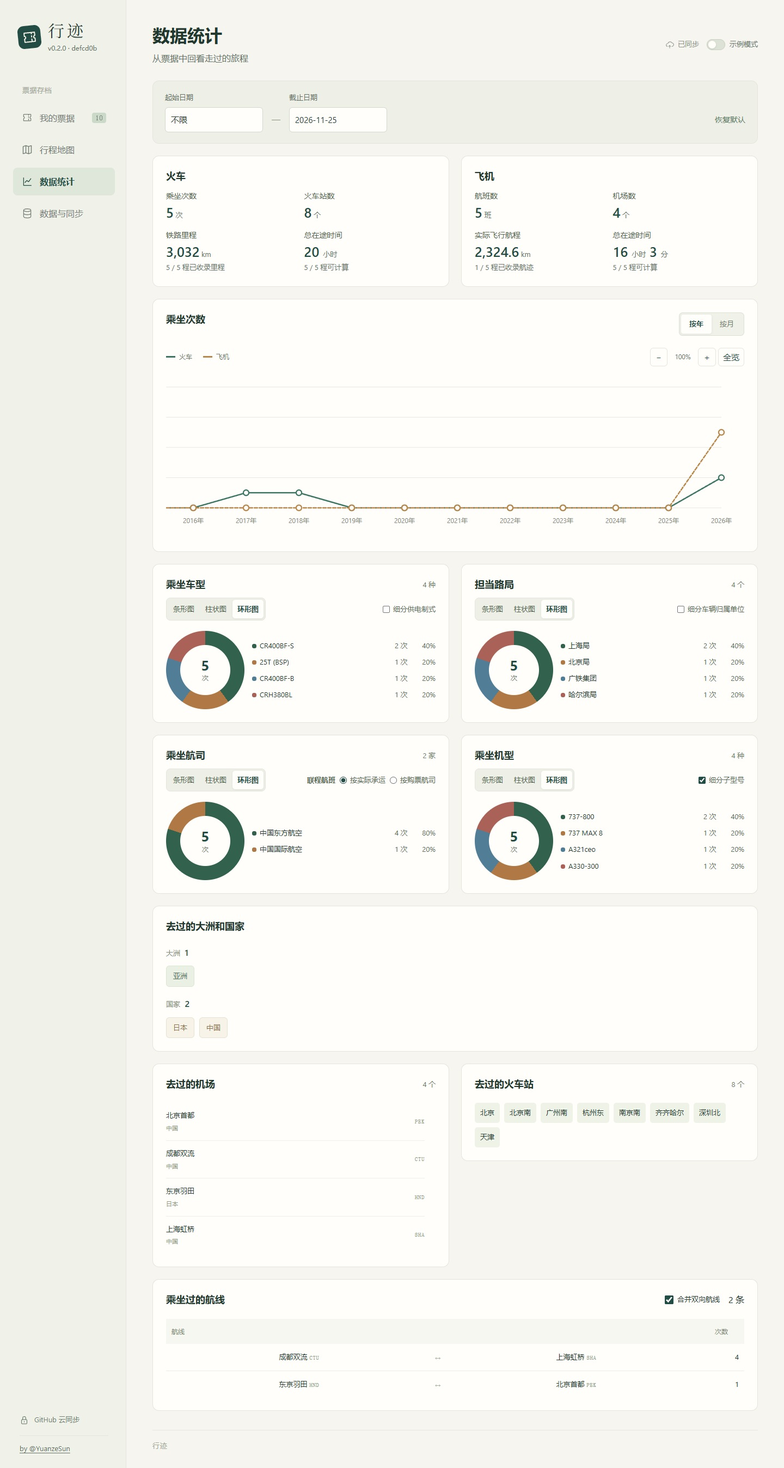
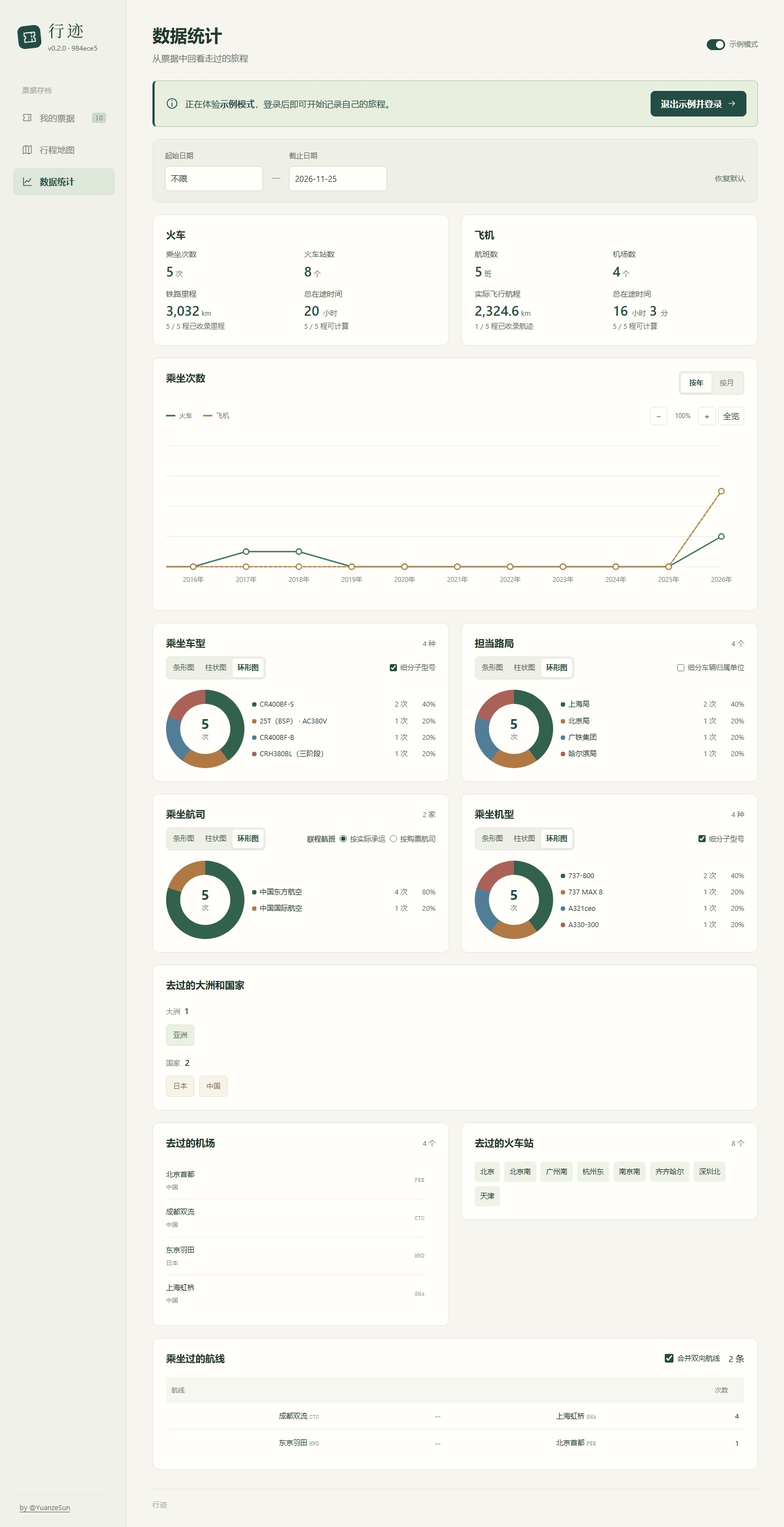
Preserve saved rail QR codes and group rolling stock subtypes

diff --git a/tests/statistics.test.js b/tests/statistics.test.js
@@ -88,7 +88,7 @@ test('rail and flight travel times are totaled independently across dates, time 
 });
 
 test('statistics default to an unbounded start and today, compare dates only and respect edited bounds', () => {
-  assert.deepEqual(statisticsOptions({}, '2026-11-16'), { ...range, period: 'year', year: '', chartZoom:1, mergeDirections:true, railUnits:false, railPowerSupplies:false, aircraftSubtypes:true, marketingAirlines:false });
+  assert.deepEqual(statisticsOptions({}, '2026-11-16'), { ...range, period: 'year', year: '', chartZoom:1, mergeDirections:true, railUnits:false, railSubtypes:true, aircraftSubtypes:true, marketingAirlines:false });
   const rows = [rail({ id: 'past' }), flight({ id: 'today', departureDate: '2026-11-16', departureTime: '23:59' }), rail({ id: 'future', departureDate: '2026-11-17' }), rail({ id: 'deleted', deleted: true }), rail({ id: 'undated', departureDate: '' })];
   const result = statisticsRange(rows, range);
   assert.deepEqual(result.records.map(row => row.id), ['past', 'today']); assert.equal(result.omittedDates, 1);
@@ -323,18 +323,61 @@ test('rail ownership and aircraft subtype toggles change only their own rankings
 
 test('rail power supply grouping separates conventional coaches, preserves EMUs and survives switching pages',()=>{
   const rows=[rail({railModel:'25GDC600V'}),rail({railModel:'25GAC380V'}),rail({railModel:'25G',railPowerSupply:'DC600V'}),rail({railModel:'25G'}),rail({railModel:'CR400AF / CR400AF'}),rail({railModel:'25T',railPowerSupply:'DC600V',departureDate:'2200-01-01'}),rail({railModel:'25T',template:'rail-refund-receipt'})];
-  const before=JSON.stringify(rows),normal=journeyStatistics(rows,range),split=journeyStatistics(rows,{...range,railPowerSupplies:true});
+  const before=JSON.stringify(rows),normal=journeyStatistics(rows,{...range,railSubtypes:false}),split=journeyStatistics(rows,range);
   assert.deepEqual(normal.railModels,[{name:'25G',count:4},{name:'CR400AF',count:1}]);
-  assert.deepEqual(Object.fromEntries(split.railModels.map(row=>[row.name,row.count])),{'25G · DC600V':2,'25G · AC380V':1,'25G · 供电制式未知':1,CR400AF:1});
+  assert.deepEqual(Object.fromEntries(split.railModels.map(row=>[row.name,row.count])),{'25G · DC600V':2,'25G · AC380V':1,'25G':1,CR400AF:1});
   for(const key of ['rail','flight','railMileage','railMileageTrips','aircraft','railBureaus','airports','stations','routes'])assert.deepEqual(split[key],normal[key]);
   const dom=new JSDOM('<div id="root"></div>'),root=dom.window.document.querySelector('#root'),options={...range};let cleanup=mountStatistics(root,rows,{options});
-  const change=checked=>{const toggle=root.querySelector('[data-stat-option="railPowerSupplies"]');toggle.checked=checked;toggle.dispatchEvent(new dom.window.Event('change',{bubbles:true}));};
+  const change=checked=>{const toggle=root.querySelector('[data-stat-option="railSubtypes"]');toggle.checked=checked;toggle.dispatchEvent(new dom.window.Event('change',{bubbles:true}));};
   try{
-    assert.equal(root.querySelector('[data-stat-option="railPowerSupplies"]').checked,false);change(true);
+    assert.equal(root.querySelector('[data-stat-option="railSubtypes"]').checked,true);
     assert.match(root.querySelector('[data-stat-ranking="rail-models"]').textContent,/DC600V/);
-    cleanup();cleanup=mountStatistics(root,rows,{options});assert.equal(root.querySelector('[data-stat-option="railPowerSupplies"]').checked,true);
-    change(false);assert.doesNotMatch(root.querySelector('[data-stat-ranking="rail-models"]').textContent,/DC600V|AC380V|供电制式未知/);assert.equal(JSON.stringify(rows),before);
+    change(false);
+    cleanup();cleanup=mountStatistics(root,rows,{options});assert.equal(root.querySelector('[data-stat-option="railSubtypes"]').checked,false);
+    assert.doesNotMatch(root.querySelector('[data-stat-ranking="rail-models"]').textContent,/DC600V|AC380V/);assert.equal(JSON.stringify(rows),before);
   }finally{cleanup();dom.window.close();}
+});
+
+test('rail model statistics uses saved submodels, preserves compound labels and groups known variants on request', () => {
+  const date = journeyDate('2024-02-29');
+  const railJourney = {
+    query: { trainNum: 'D821', startDate: date, boardingDate: date, origin: '北京南', destination: '上海虹桥' },
+    queriedAt: '2024-02-29T00:00:00Z',
+    stops: [{ station: '北京南', departureDate: date, departureTime: '09:00' }, { station: '上海虹桥', arrivalDate: date, arrivalTime: '16:00' }],
+    trainsets: [{ id: 'CRH5G-5218', model: 'CRH5G', subModel: '技术提升型' }, { id: 'CRH5G-5229', model: 'CRH5G', subModel: '技术提升型' }],
+    coupling: true,
+  };
+  const rows = [
+    rail({ service: 'D821', railModel: 'CRH5G', railJourney }), rail({ railModel: 'ｃｒｈ５ｇ (技术提升)' }),
+    rail({ railModel: 'CRH5G' }), rail({ railModel: 'CRH5G（旧型）' }), rail({ railModel: 'CRH5A' }),
+    rail({ railModel: 'CRH2C1 / CRH2C一阶段 / CRH2C（一阶）' }),
+    rail({ railModel: 'CRH380A(统型,公务版) / CR400BF-GS' }), rail({ railModel: 'CR400BF-S / CR400BF-GS' }),
+    rail({ railModel: '25G (DC600V 供电)' }), rail({ railModel: '25T (BSP)', railPowerSupply: 'AC380V' }),
+    rail({ railModel: 'CR200J3-C / CR200J1-D' }), rail({ railModel: 'CRH6A-A / CRH6A' }),
+    rail({ railModel: '未知车型（说明）' }),
+  ];
+  const before = JSON.stringify(rows);
+  const counts = options => Object.fromEntries(journeyStatistics(rows, { ...range, ...options }).railModels.map(({ name, count }) => [name, count]));
+  assert.deepEqual(counts(), {
+    'CRH5G（技术提升型）': 2, CRH5G: 1, 'CRH5G（旧型）': 1, CRH5A: 1, 'CRH2C（一阶段）': 1,
+    'CRH380A（统型、公务版）': 1, 'CR400BF-GS': 2, 'CR400BF-S': 1, '25G · DC600V': 1, '25T（BSP） · AC380V': 1,
+    'CR200J3-C': 1, 'CR200J1-D': 1, 'CRH6A-A': 1, CRH6A: 1, '未知车型(说明)': 1,
+  });
+  assert.deepEqual(counts({ railSubtypes: false }), {
+    CRH5G: 4, CRH5A: 1, CRH2C: 1, CRH380A: 1, CR400BF: 2, '25G': 1, '25T': 1,
+    CR200J: 1, CRH6A: 1, '未知车型(说明)': 1,
+  });
+  const dom = new JSDOM('<div id="root"></div>'), root = dom.window.document.querySelector('#root');
+  const cleanup = mountStatistics(root, rows, { options: { ...range } });
+  try {
+    const subtype = root.querySelector('[data-stat-option="railSubtypes"]');
+    assert.equal(subtype.checked, true);
+    subtype.checked = false;
+    subtype.dispatchEvent(new dom.window.Event('change', { bubbles: true }));
+    assert.doesNotMatch(root.querySelector('[data-stat-ranking="rail-models"]').textContent, /技术提升型|公务版|CR400BF-GS|DC600V|AC380V/);
+    assert.equal(root.querySelector('[data-stat-option="aircraftSubtypes"]').checked, true);
+    assert.equal(JSON.stringify(rows), before);
+  } finally { cleanup(); dom.window.close(); }
 });
 
 test('each ranking switches charts independently and keeps its grouping and date filters', () => {
@@ -366,9 +409,9 @@ test('each ranking switches charts independently and keeps its grouping and date
     assert.match(tail.querySelector('summary').textContent, /其他（2 项）2 次28\.6%/);
     assert.equal(tail.querySelectorAll('li').length, 2);
     assert.equal(card('aircraft').querySelector('.statistics-ring strong').textContent, '7');
-    change('[data-stat-option=railPowerSupplies]', { checked: true });
+    change('[data-stat-option=railSubtypes]', { checked: false });
     assert.equal(picked('rail-models'), 'columns');
-    assert.match(card('rail-models').textContent, /DC600V/);
+    assert.doesNotMatch(card('rail-models').textContent, /DC600V/);
     change('[data-stat-option=aircraftSubtypes]', { checked: false });
     assert.equal(picked('aircraft'), 'donut');
     assert.equal(card('aircraft').querySelector('.statistics-ring strong').textContent, '7');

diff --git a/src/code-editor.js b/src/code-editor.js
@@ -9,7 +9,7 @@ import {fieldSourceBadge,markFieldSources,railBarcodeFieldLocked,railCodeEntryLo
 import {ticketFieldLocked,refreshTicketFieldLocks} from './barcode-fields.js';
 import { codeCameraMarkup, bindCodeCamera } from './code-camera.js';
 import { renderCodeData } from './barcode-data.js';
-import { isLinearTicketCode, normalizeTicketCode } from './ticket-code.js';
+import { hasRailQRCode, isLinearTicketCode, normalizeTicketCode } from './ticket-code.js';
 import { normalizeBoardingCode } from './boarding-code.js';
 import { DEMO_BOARDING_CODE } from './demo-boarding-code.js';
 import { DEMO_RAIL_LINEAR_CODE, DEMO_RAIL_TICKET_CODE, DEMO_TICKET_CODE } from './demo-code.js';
@@ -18,7 +18,8 @@ import {escape as e} from './html.js';
 import {applyTicketIdentity} from './personal-profile.js';
 
 const configuration = record => record.type === 'flight' ? { field: 'boardingCode', normalize: normalizeBoardingCode } : { field: 'ticketCode', normalize: normalizeTicketCode };
-const removable = (record,field) => !!record[field] && record.boardingCodeSource!=='generated';
+const codeRemovalLocked = (record, editingSaved) => editingSaved && (record.type === 'flight' || hasRailQRCode(record));
+const removable = (record, field, editingSaved) => !codeRemovalLocked(record, editingSaved) && !!record[field] && record.boardingCodeSource !== 'generated';
 const thumbnail = code => code ? `${renderCodeData(code)}<span>已收录</span>` : '';
 let boardingExamples, railQRExample, railLinearExample;
 function boardingExamplesMarkup(hidden) {
@@ -40,7 +41,7 @@ export function ticketCodeEditor(record, { fromScan = false, editingSaved = fals
   const referenceButton = fromScan && !disabled ? `<button type="button" class="button small secondary" id="code-use-scan" ${record[field] ? 'hidden' : ''}>读取本次图片中的码</button>` : '';
   const upload = `<button type="button" class="button small secondary" data-code-upload${disabled}>上传图片</button><input id="code-photo" type="file" accept="image/png,image/jpeg,image/webp" hidden${disabled} />`;
   const saved = normalize(record[field]);
-  const remove = flight && editingSaved ? '' : `<button type="button" class="button small secondary" id="code-remove" ${removable(record,field) ? '' : 'hidden'}>移除</button>`;
+  const remove = codeRemovalLocked(record, editingSaved) ? '' : `<button type="button" class="button small secondary" id="code-remove" ${removable(record, field, editingSaved) ? '' : 'hidden'}>移除</button>`;
   const controls = `<div class="saved-code" id="saved-code" ${saved ? '' : 'hidden'}>${thumbnail(saved)}</div><div class="code-actions">${referenceButton}<button type="button" class="button small secondary" data-code-start${disabled}>相机扫描</button>${upload}${remove}</div>`;
   const scan = `<div class="boarding-code-scan"><div class="boarding-code-controls">${controls}</div>${flight ? boardingExamplesMarkup(record[field]) : railExampleMarkup(record)}</div>`;
   return `<section data-code-editor class="editor-extra${flight ? '' : ' full-field rail-code-entry'}" ${flight ? '' : 'data-rail-code-entry'} id="code-editor"><h3>${title}${fieldSourceBadge(field,record)}</h3>${scan}${codeCameraMarkup()}<p class="fine-print" id="code-status" role="status"></p><p id="code-consistency" class="code-consistency" role="status" hidden></p><div id="code-choices" class="code-choices" hidden></div><button type="button" class="text-button" id="code-cancel" hidden>取消选择</button><p class="form-error" id="code-error" role="alert"></p></section>`;
@@ -58,7 +59,7 @@ export function bindTicketCodeEditor(form, draft, changed, { referenceURL = '', 
     saved.innerHTML = thumbnail(draft[field]);
     saved.hidden = !draft[field];
     const remove = find('code-remove');
-    if (remove) remove.hidden = !removable(draft,field);
+    if (remove) remove.hidden = !removable(draft, field, editingSaved);
     const reference = find('code-use-scan');
     if (reference) reference.hidden = !!draft[field];
     section.querySelector('[data-code-examples]').hidden = !!draft[field] || railCodeEntryLocked(draft);
@@ -176,6 +177,12 @@ export function bindTicketCodeEditor(form, draft, changed, { referenceURL = '', 
   function use(code) {
     if (!isCurrent()) return;
     if (flight) { useFlight(code); return; }
+    if (codeRemovalLocked(draft, editingSaved) && isLinearTicketCode(code.data)) {
+      reset();
+      status.textContent = '';
+      error.textContent = '已收录的二维码只能用二维码替换';
+      return;
+    }
     const previousRecord={...draft};
     draft[field] = normalize(code.data);
     markManualFields(draft,[field]);
@@ -275,7 +282,7 @@ export function bindTicketCodeEditor(form, draft, changed, { referenceURL = '', 
   photo.addEventListener('change', () => { const file = photo.files?.[0]; if (file) { onCameraStart?.(); camera.stop(); read(file); } });
   find('code-use-scan')?.addEventListener('click', () => readReference());
   find('code-remove')?.addEventListener('click', () => {
-    if((flight && editingSaved) || !removable(draft,field))return;
+    if (!removable(draft, field, editingSaved)) return;
     reset();
     if(!flight)draft.lockedFields=draft.lockedFields.filter(key=>!railBarcodeFieldLocked(draft,key));
     draft[field]='';

diff --git a/src/rail-model-statistics.js b/src/rail-model-statistics.js
@@ -1,0 +1,68 @@
+import { normalizeRailModel, normalizeRailPowerSupply } from './rail-details.js';
+import { isEmuModel, railJourneyMatches, railText } from './rail-journey.js';
+
+// Model designations and configuration codes, distinct from trainset numbers and power supplies.
+const modelCode = /^(CR(?:H\d+[A-Z][A-Z\d]*|\d{3}[A-Z][A-Z\d]*)|(?:CJ|DJ)\d+[A-Z\d]*|25[A-Z]{1,3})(\s*-\s*[A-Z]{1,2})?(?:-\d{4})?(?:型)?/;
+const variantLabel = /^(?:\s*(?:\((.+)\)|·\s*(.+)|(技术提升[型版]?|[一二三]阶段|非?统型?)))?$/;
+const seriesPatterns = [
+  /^(CR400(?:AF|BF))-(?:A|B|C|E|G|J|S|Z|AE|AS|AZ|BE|BS|BZ|GS|GZ)$/,
+  /^(CR200J)[1-3](?:-[A-D])?$/,
+  /^(CRH6[AF])-A$/,
+];
+const modelAliases = new Map([['CRH2C1', ['CRH2C', '一阶段']], ['CRH2C2', ['CRH2C', '二阶段']]]);
+const variantAliases = new Map([
+  ['技术提升', '技术提升型'], ['技术提升版', '技术提升型'],
+  ['一阶', '一阶段'], ['第一阶段', '一阶段'], ['二阶', '二阶段'], ['第二阶段', '二阶段'],
+  ['三阶', '三阶段'], ['第三阶段', '三阶段'], ['非统', '非统型']
+]);
+
+function modelLabels(value) {
+  const text = railText(value).normalize('NFKC');
+  const labels = [];
+  let depth = 0, start = 0;
+  for (let index = 0; index < text.length; index++) {
+    const char = text[index];
+    if (char === '(') depth++;
+    else if (char === ')') depth = Math.max(0, depth - 1);
+    else if (!depth && '/、,;+\n'.includes(char)) {
+      labels.push(text.slice(start, index));
+      start = index + 1;
+    }
+  }
+  labels.push(text.slice(start));
+  return labels;
+}
+
+function classify(value, subModel = '') {
+  const text = normalizeRailModel(railText(value));
+  if (!text) return null;
+  const match = modelCode.exec(text);
+  const variantMatch = match && variantLabel.exec(text.slice(match[0].length));
+  if (!variantMatch) return { code: text, label: text, series: text };
+  const [, main, suffix = ''] = match;
+  const [, parenthetical, annotated, compact] = variantMatch;
+  const base = main + suffix.replace(/\s/g, '');
+  const [code, knownVariant] = modelAliases.get(base) || [base, ''];
+  const variant = railText(parenthetical || annotated || compact || knownVariant || subModel).normalize('NFKC').toUpperCase();
+  const details = [...new Set(variant.split(/[,、]/).map(detail => detail.trim()).filter(Boolean)
+    .map(detail => variantAliases.get(detail) || detail))];
+  const label = details.length ? `${code}（${details.join('、')}）` : code;
+  const series = seriesPatterns.find(pattern => pattern.test(code))?.exec(code)[1] || code;
+  return { code, label, series };
+}
+
+export function railModelsForRecord(record, { railSubtypes }) {
+  const saved = modelLabels(record.railModel).map(value => classify(value)).filter(Boolean);
+  const trainsets = railJourneyMatches(record) ? record.railJourney.trainsets : [];
+  const stocks = trainsets.map(stock => classify(stock.model, stock.subModel)).filter(Boolean);
+  const models = saved.length ? saved.flatMap(model => {
+    if (!railSubtypes || model.label !== model.code) return [model];
+    const matches = stocks.filter(stock => stock.code === model.code);
+    return matches.length ? matches : [model];
+  }) : stocks;
+  const supply = normalizeRailPowerSupply(railText(record.railPowerSupply));
+  return new Set(models.map(model => {
+    if (!railSubtypes) return model.series;
+    return supply && !isEmuModel(model.code) ? `${model.label} · ${supply}` : model.label;
+  }));
+}

diff --git a/src/statistics-model.js b/src/statistics-model.js
@@ -9,8 +9,8 @@ import { dateInterval } from './search.js';
 import { CONTINENT_AIRPORT_CODES } from './data/airport-geography.js';
 import { isJourneyRecord } from './record-kind.js';
 import { flightTrackDistanceKm } from './flight-track.js';
-import { normalizeRailBureau, normalizeRailModel, normalizeRailPowerSupply } from './rail-details.js';
-import { railJourneyMatches, railText, isEmuModel } from './rail-journey.js';
+import { normalizeRailBureau } from './rail-details.js';
+import { railModelsForRecord } from './rail-model-statistics.js';
 import { journeyMinutes } from './journey-duration.js';
 
 const CONTINENTS = Object.freeze({ AF: '非洲', AN: '南极洲', AS: '亚洲', EU: '欧洲', NA: '北美洲', OC: '大洋洲', SA: '南美洲' });
@@ -19,14 +19,6 @@ const airportContinents = new Map(Object.entries(CONTINENT_AIRPORT_CODES).flatMa
 const laoStations = new Set(['YTM', 'VBM', 'VJM', 'VFM', 'VCM', 'VOM']);
 const regionNames = new Intl.DisplayNames(['zh-CN'], { type: 'region' });
 const compare = new Intl.Collator('zh-CN', { numeric: true }).compare;
-function railModelsForRecord(record, options) {
-  const model = railText(record.railModel);
-  const values = model ? [model] : railJourneyMatches(record) ? record.railJourney.trainsets.map(stock => railText(stock.model)) : [];
-  const models = values.flatMap(value => value.split(/[/、,，;；+]/)).map(normalizeRailModel).filter(Boolean);
-  if (!options.railPowerSupplies) return new Set(models);
-  const supply = normalizeRailPowerSupply(record.railPowerSupply || '') || '供电制式未知';
-  return new Set(models.map(model => isEmuModel(model) ? model : `${model} · ${supply}`));
-}
 export const countryName = code => code === 'CN' ? '中国' : regionNames.of(code) || code;
 export function todayDate(date = new Date()) {
   return `${date.getFullYear()}-${String(date.getMonth() + 1).padStart(2, '0')}-${String(date.getDate()).padStart(2, '0')}`;
@@ -34,7 +26,7 @@ export function todayDate(date = new Date()) {
 export function statisticsOptions(input = {}, today = todayDate()) {
   const selectedEnd = input.dateTo || today;
   const dateTo = dateInterval(selectedEnd)?.end > today ? today : selectedEnd;
-  return { dateFrom: input.dateFrom ?? '', dateTo, period: input.period === 'month' ? 'month' : 'year', year: input.year || '', chartZoom:Number.isFinite(input.chartZoom) ? Math.max(.0001,Math.min(8,input.chartZoom)) : 1, mergeDirections: input.mergeDirections !== false, railUnits:input.railUnits === true, railPowerSupplies:input.railPowerSupplies === true, aircraftSubtypes:input.aircraftSubtypes !== false, marketingAirlines:input.marketingAirlines === true };
+  return { dateFrom: input.dateFrom ?? '', dateTo, period: input.period === 'month' ? 'month' : 'year', year: input.year || '', chartZoom:Number.isFinite(input.chartZoom) ? Math.max(.0001,Math.min(8,input.chartZoom)) : 1, mergeDirections: input.mergeDirections !== false, railUnits:input.railUnits === true, railSubtypes:input.railSubtypes !== false, aircraftSubtypes:input.aircraftSubtypes !== false, marketingAirlines:input.marketingAirlines === true };
 }
 
 export function statisticsRange(records, input = {}, today = todayDate()) {

diff --git a/tests/rail-qr.test.js b/tests/rail-qr.test.js
@@ -251,28 +251,21 @@ test('rail entry locks QR fields and keeps Code128 archival capture separate fro
     assert.equal(field('service').readOnly, true);
     assert.equal(photoEntry().querySelector('[data-rail-photo-controls]').disabled, true);
     assert.equal(railQueries.length, 1);
-    form().querySelector('#code-remove').click();
-    assert.equal(field('service').readOnly, false);
-    assert.equal(field('departureDateDay').disabled, false);
-    assert.equal(form().querySelector('[data-seat-number]').readOnly, false);
-    assert.equal(form().querySelector('[data-seat-number]').value, '10F');
-    assert.equal(photoEntry().querySelector('[data-rail-photo-controls]').disabled, false);
-    assert.equal(photoEntry().querySelector('[data-rail-photo-lock]').hidden, true);
-    assert.equal(receipt().disabled, false);
-    assert.deepEqual(fieldStars('price'), ['生成二维码必填']);
-    assert.deepEqual(fieldStars('saleCode'), ['生成二维码必填']);
-    const codePath = () => form().querySelector('#editor-preview [data-ticket-code] path');
-    const beforeEdit = codePath().getAttribute('d');
-    fill('service', 'G105');
-    assert.notEqual(codePath().getAttribute('d'), beforeEdit);
-    submit();
-    await waitFor(() => !form() && server.records()[0].service === 'G105');
-    assert.equal(server.records()[0].ticketCode, '');
-    assert.equal(server.records()[0].lockedFields.includes('seat'), false);
-
+    assert.equal(form().querySelector('#code-remove'), null);
+    assert.equal(receipt().disabled, true);
     const barcode = await writeBarcode(atob(DEMO_RAIL_LINEAR_CODE.rawBytes), { format: 'Code128', addQuietZones: true });
     pixels = symbolImage(barcode.symbol);
     imageBlob = new Blob([await barcode.image.arrayBuffer()], { type: 'image/png' });
+    form().querySelector('[data-code-start]').click();
+    await waitFor(() => form()?.querySelector('#code-error')?.textContent === '已收录的二维码只能用二维码替换');
+    fill('service', 'G105');
+    fill('gate', 'B1');
+    assert.equal(field('service').value, 'G103');
+    submit();
+    await waitFor(() => !form() && server.records()[0].gate === 'B1');
+    assert.deepEqual(server.records()[0].ticketCode, record.ticketCode);
+    assert.equal(server.records()[0].lockedFields.includes('seat'), true);
+
     document.querySelector('[data-action="new"]').click();
     await waitFor(form);
     form().querySelector('[data-code-start]').click();

diff --git a/tests/full-rail-journey.test.js b/tests/full-rail-journey.test.js
@@ -51,11 +51,11 @@ test('mileage matching permits absent arrival at the first station and departure
   assert.equal(result.railMileage,'1014');
   assert.equal(calendarDate(result.railJourney.stops[0].arrivalDate),'');assert.equal(result.railJourney.stops.at(-1).departureDate,'');
 });
-test('rolling stock model and explicit power supply are independent; identical models share one ranking',()=>{
+test('rolling stock model and explicit power supply are saved separately and can share one ranking',()=>{
   for(const [input,model,power] of [['25TDC600V','25T','DC600V'],['25GAC380V','25G','AC380V'],['25K','25K',''],['25B','25B',''],['CR400BF-A','CR400BF-A',''],['25T AC380V/DC600V','25T','AC380V / DC600V']])assert.deepEqual(splitRailModel(input),{model,powerSupply:power});
   const dc=ticket({railModel:'25GDC600V'}),ac=ticket({railModel:'25GAC380V'});
   assert.equal(dc.railModel,'25G');assert.equal(dc.railPowerSupply,'DC600V');assert.equal(ac.railPowerSupply,'AC380V');
-  const stats=journeyStatistics([dc,ac],{dateTo:'2026-11-17'});assert.deepEqual(stats.railModels,[{name:'25G',count:2}]);
+  const stats=journeyStatistics([dc,ac],{dateTo:'2026-11-17',railSubtypes:false});assert.deepEqual(stats.railModels,[{name:'25G',count:2}]);
 });
 test('rail mileage follows the statistics date range, omits missing distances and excludes refunds',()=>{
   const rows=[ticket({railMileage:'1014'}),ticket({railMileage:''}),ticket({railMileage:'999',departureDate:'2200-01-01'}),ticket({railMileage:'999',template:'rail-refund-receipt'})];

diff --git a/src/app.js b/src/app.js
@@ -1059,7 +1059,7 @@ function editRecord(record, {
       ? '<input type="hidden" name="template" value="air-boarding-pass" />'
         + field('flightStatus', draft, { options: Object.entries(FLIGHT_STATUSES) })
         + ticketCodeEditor(draft, { editingSaved })
-      : ticketCodeEditor(draft, { fromScan:!!localFileURL }) + railReceiptControls() + railPhotoControls() + railTicketOptions(draft));
+      : ticketCodeEditor(draft, { fromScan:!!localFileURL, editingSaved }) + railReceiptControls() + railPhotoControls() + railTicketOptions(draft));
   const invoiceRows = railInvoiceDetails(draft.railInvoice);
   const invoiceDetails = invoiceRows.length ? `<details class="editor-extra"><summary>电子报销凭证资料</summary><dl class="detail-grid">${invoiceRows.map(([label, value]) => `<div><dt>${e(label)}</dt><dd>${e(value)}</dd></div>`).join('')}</dl></details>` : '';
   const requiredHint = `<span class="editor-required-hint"><span><b class="required-mark" role="img" aria-label="红色星号">*</b> 保存必填</span><span><b class="required-mark barcode-required-mark" role="img" aria-label="蓝色星号">*</b> 生成${flight ? '条码' : '二维码'}必填</span></span>`;

diff --git a/src/statistics.js b/src/statistics.js
@@ -15,7 +15,7 @@ function placesPanel(title, places, type) {
 }
 
 const rankings = {
-  'rail-models': { title: '乘坐车型', data: 'railModels', unit: '种', option: 'railPowerSupplies', label: '细分供电制式' },
+  'rail-models': { title: '乘坐车型', data: 'railModels', unit: '种', option: 'railSubtypes', label: '细分子型号' },
   'rail-bureaus': { title: '担当路局', data: 'railBureaus', unit: '个', option: 'railUnits', label: '细分车辆归属单位' },
   aircraft: { title: '乘坐机型', data: 'aircraft', unit: '种', option: 'aircraftSubtypes', label: '细分子型号', unknown: 'unknownAircraft', unknownLabel: '未识别机型' },
   airlines: { title: '乘坐航司', data: 'airlines', unit: '家', unknown: 'unknownAirlines', unknownLabel: '未识别航司' }

diff --git a/src/rail-details.js b/src/rail-details.js
@@ -29,7 +29,7 @@ export function splitRailModel(value = '') {
   const model=text.split(/\s*\/\s*/).map(part=>{
     if(/^(?:AC|DC)\s*\d+(?:\.\d+)?\s*V$/.test(part)){powers.push(normalizeRailPowerSupply(part));return '';}
     if(!/^25[A-Z]/.test(part))return part;
-    const cleaned=part.replace(/(?:AC|DC)\s*\d+(?:\.\d+)?\s*V/g,power=>{powers.push(normalizeRailPowerSupply(power));return '';}).replace(/\(\s*\)|（\s*）/g,'').trim();
+    const cleaned=part.replace(/((?:AC|DC)\s*\d+(?:\.\d+)?\s*V)(?:\s*供电)?/g,(_,power)=>{powers.push(normalizeRailPowerSupply(power));return '';}).replace(/\(\s*\)/g,'').trim();
     return cleaned;
   }).filter(Boolean).join(' / ');
   return {model,powerSupply:[...new Set(powers)].join(' / ')};

diff --git a/docs/statistics.md b/docs/statistics.md
@@ -15,7 +15,9 @@ OPEN 票、无效机票保留在票夹并在登机牌主券和副券上标识，
 - 火车与飞机次数，以及按年、按月的折线图。无行程的年份和月份补零；月度图连续包含所有记录年份，可横向滚动跨年，也可用年份选择器跳转。年度图在年份较多时同样横向滚动。通过图上数据点查看次数，不再提供“查看图表数据”。
 - 乘坐车型、担当路局，按已填写或经 RailGo 补全保存的字段统计；局名常见简称归并，车型代码统一大小写。可开启“细分车辆归属单位”，按路局及车辆归属单位分别统计；未收录单位的记录保留在所属路局的“单位未收录”组。它们不印在车票上，未填写时不猜测。
 
-  车型支持普速客车与动车组。未填写车型时，读取票据中日期、车次及区间均匹配的已保存车组快照；不根据车厢图片的现行车型推断历史车型，也不在线查询。重联的同型号车组在同一次行程只计一次，不同型号分别计入各自车型。
+  车型支持普速客车与动车组。默认开启“细分子型号”，保留 CRH5G（技术提升型）、CR400BF-GS 等型号。票据只填写基础型号时，可从日期、车次、区间和型号均匹配的已保存车组资料补足子型。未填写车型时，可直接使用匹配的车组资料。关闭细分后，CRH5G 的各子型归入 CRH5G，已知的 CR400BF 技术配置归入 CR400BF 等对应系列。每次行程对同一统计分组计一次，车型字段和车组资料照常保存。
+
+  子型号口径参考 [中车长客 CRH5G 技术提升项目](https://www.crrcgc.cc/ckgf/2016-10/28/article_B8CC21957935433BB01BC6ECFB7A05C6.html)、[中车四方 CR400AF-S 产品资料](https://www.crrcgc.cc/sfgf/2021-11/22/article_37881FC7258B4931A76E69A92BDB09EA.html)和 [RailGo 车型字典](https://github.com/RailGoApps/RailGo-Parser/blob/main/railgo/config.py)。
 - 乘坐机型，按已有机型文字归并，统一大小写、厂商前缀和常见波音 B 前缀，不推断未填写的型号。默认“细分子型号”，关闭后将已识别型号归入系列，例如 737-200、737-800 和 737 MAX 8 合并为 737；DHC-8 的不同子型号合并为 DHC-8。模糊代码与未识别文字保持各自身份。
 - 乘坐航司按航段计数，合并参考库已确认的航司代码、中英文名称和简称。默认按实际承运统计，已知为营销航司且承运方不明的航段计入未识别。切换到按购票航司时，优先使用已收录的营销航司，也可从票据上的航班号识别。
 - 去过的大洲、国家、机场和火车站。按记录的起终点统计，不推断经停、实际入境或完整旅行足迹。无法确认身份的端点暂不计入。机场列表与按站名长度排列的火车站标签均限制高度并支持滚动；火车站只显示名称，电报码留在内部匹配和存储使用。
@@ -36,4 +38,4 @@ OPEN 票、无效机票保留在票夹并在登机牌主券和副券上标识，
 
 统计在设备本地计算，不为统计发送票据或查询在线地理编码。
 
-车型与供电制式分开保存：例如 25GDC600V 解析为车型 25G、供电制式 DC600V。“乘坐车型”默认合并不同供电制式的同型号；勾选“细分供电制式”后，普速客车按车型与已填供电组合统计，例如“25G · DC600V”和“25G · AC380V”，缺失供电的归入该车型的“供电制式未知”。动车组沿用车型分组。不根据车型推测供电，切换选项不修改票据或其他统计。
+普速客车的供电制式也由“细分子型号”控制。开启时，“25G · DC600V”和“25G · AC380V”分别统计，缺少供电资料时显示“25G”。关闭后统一归入 25G。
